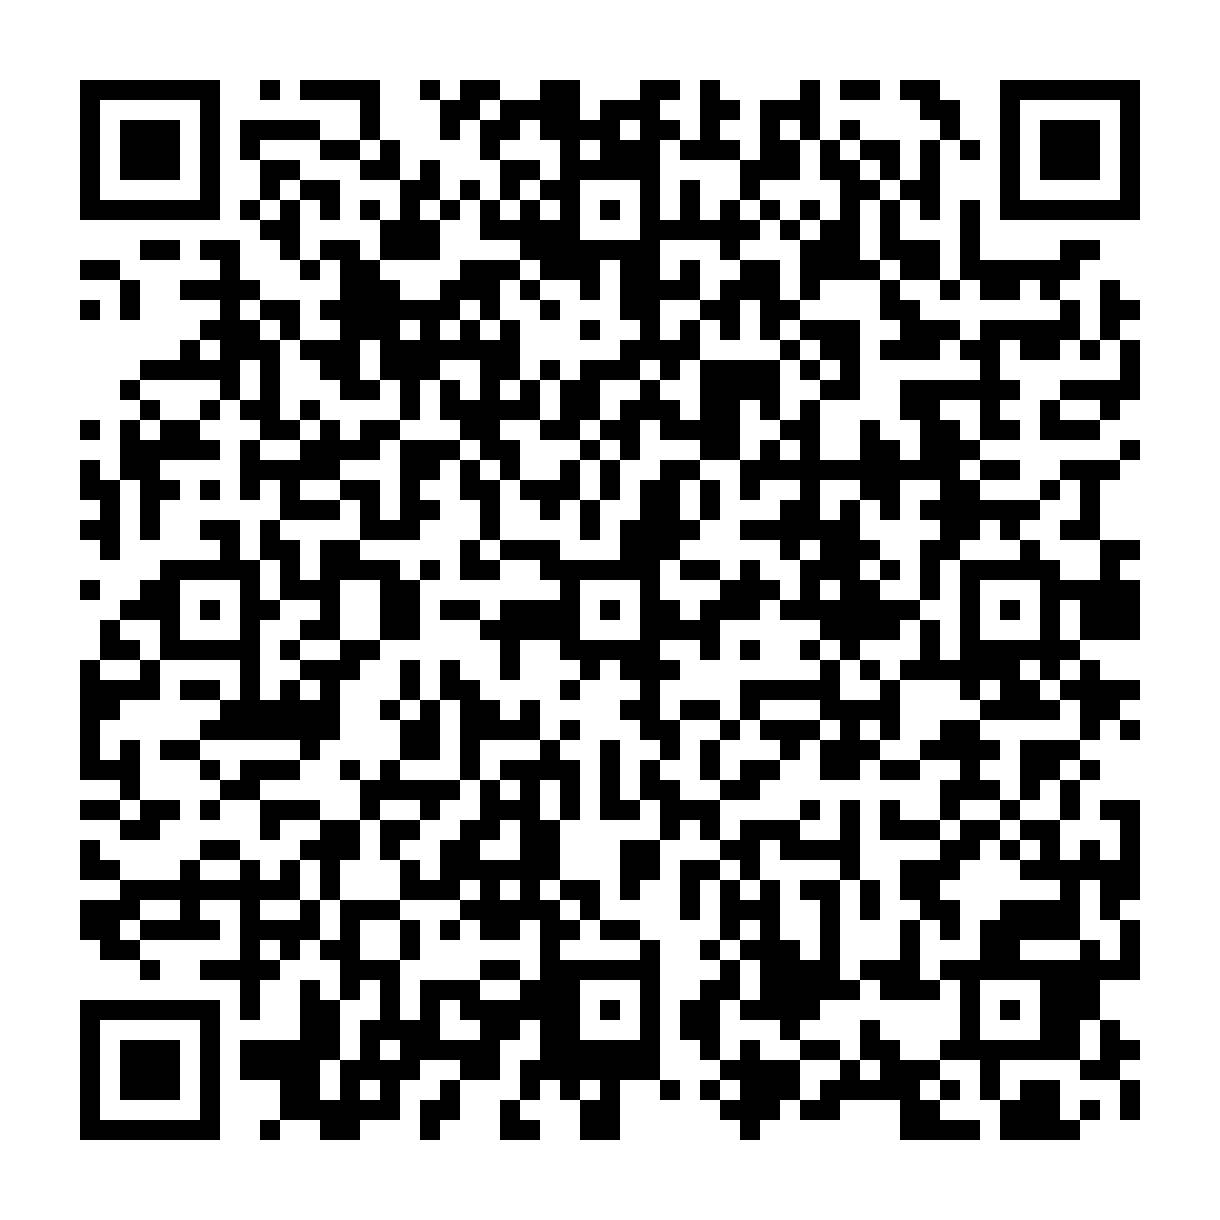
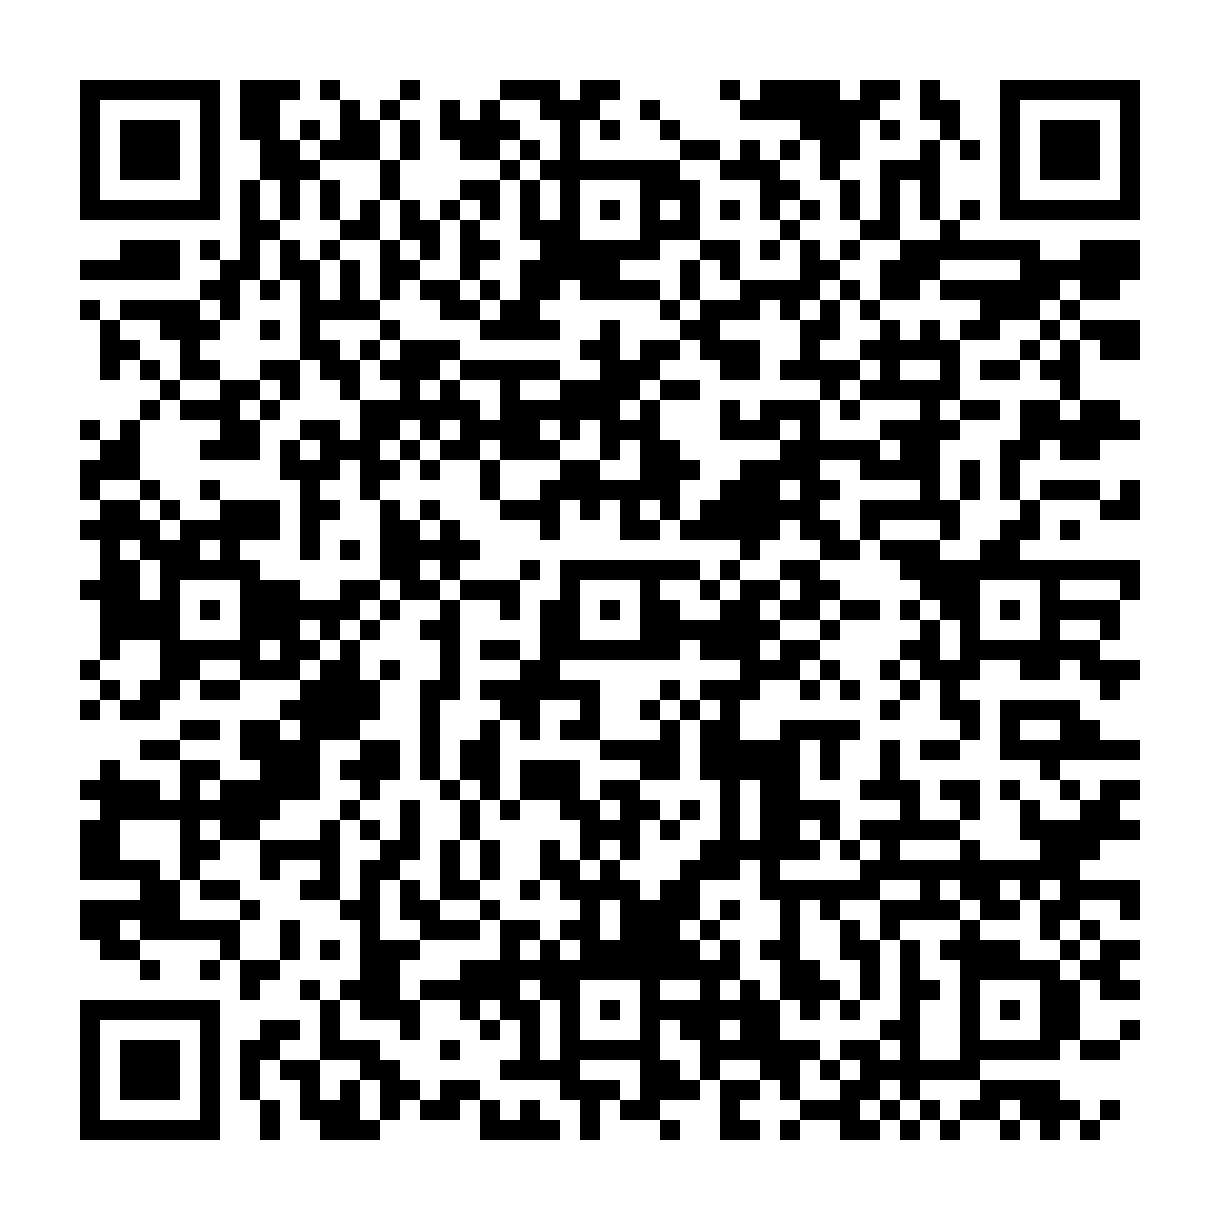
upd

diff --git a/app/Controllers/Agreements.php b/app/Controllers/Agreements.php
@@ -134,7 +134,7 @@ class Agreements extends Security_Controller {
             /* Validation Input */
             $this->validate_submitted_data(array(
                 "id" => "numeric",
-                "property_id" => "required",
+                "property" => "required",
                 "notary_ref" => "required",
                 "buyer_ids" => "required",
                 "seller_ids" => "required",
@@ -190,6 +190,9 @@ class Agreements extends Security_Controller {
                 LEFT JOIN rise_properties p ON p.id = ag.property_id
                 WHERE ag.id = $save_id")->getRow();
 
+                $doctor = $this->login_user->first_name . ' ' . $this->login_user->last_name;
+
+                $input['doctor'] = $doctor;
                 $input['buyer'] = $this->format_names($buyers_info->buyers);
                 $input['seller'] = $this->format_names($buyers_info->sellers);
                 $input['witness'] = $this->format_names($buyers_info->witnesses);
@@ -290,6 +293,7 @@ class Agreements extends Security_Controller {
             'payment_method' => $data['payment_method'],
             'property' => $data['property'],
             'amount' => $data['amount'],
+            'doctor' => $data['doctor'],
             'date' => date('F d, Y', strtotime($data['created_at'])),
 
         ]);
